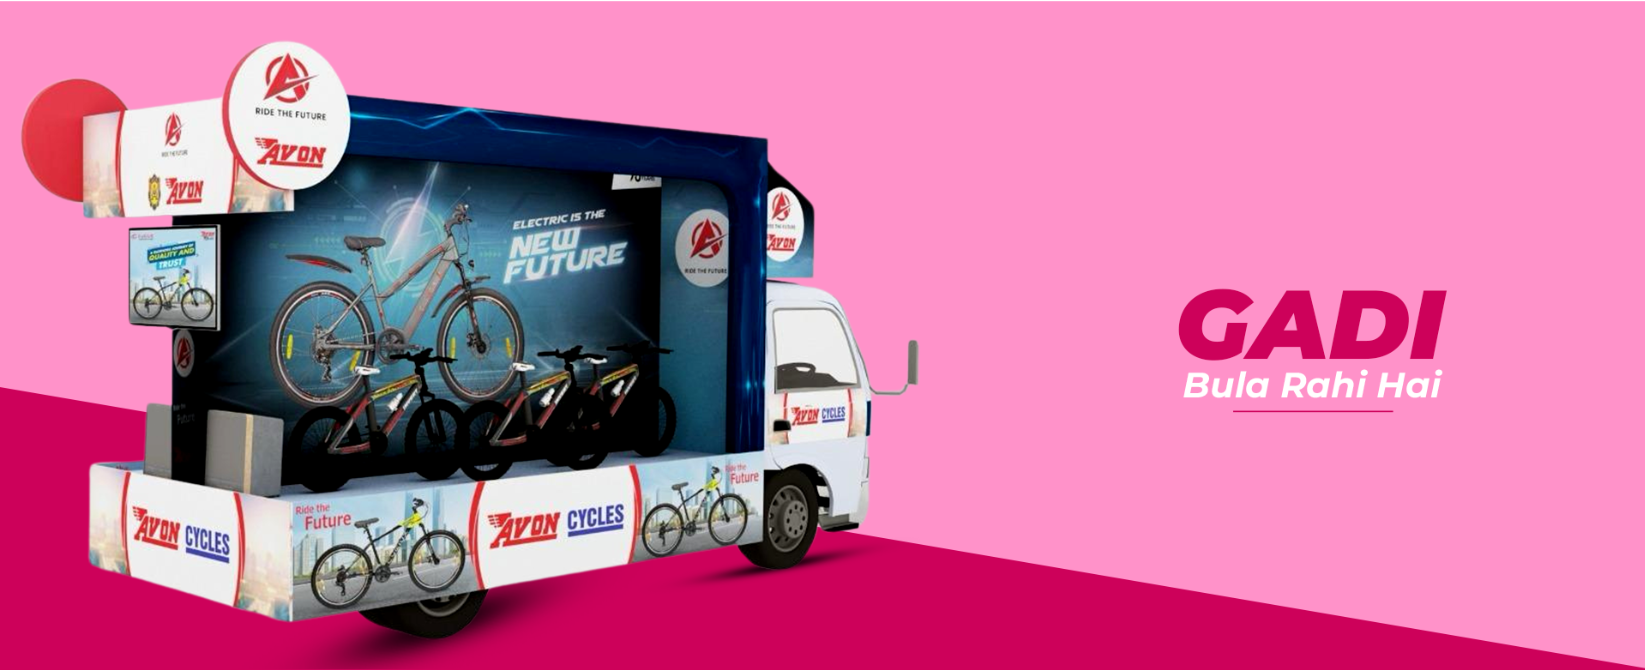
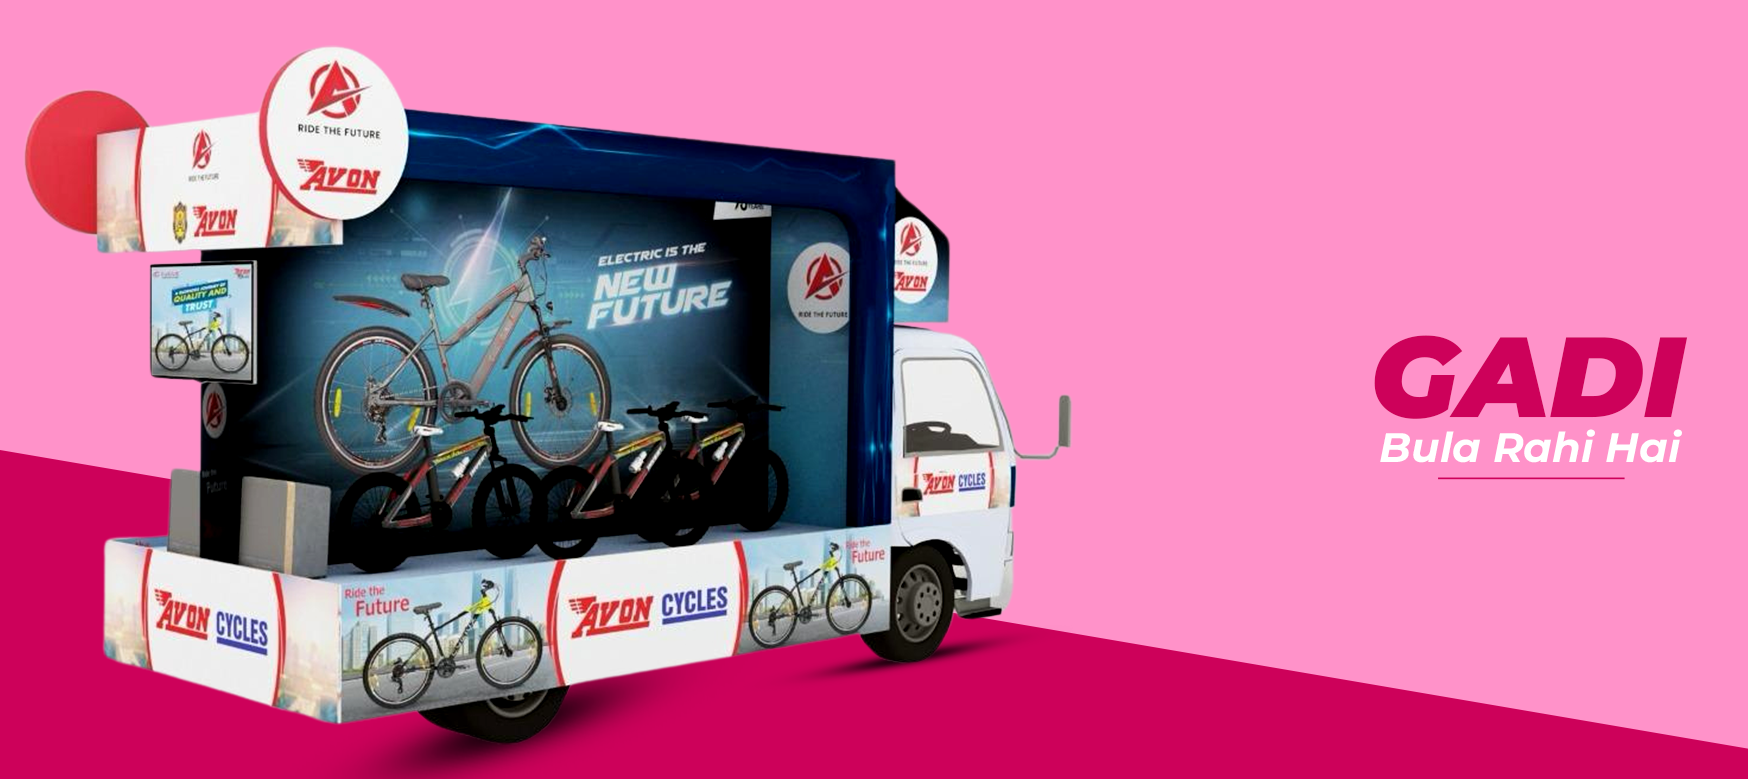
feat: add images to homepage

diff --git a/index.html b/index.html
@@ -37,7 +37,7 @@
     </div>
   </header>
 
-  <div class="text-white">
+  <div class=" text-slate-200">
     <!-- 2. Hero section -->
    <img class="w-full" src="./images/gadi.png" alt="gadi"/>
 
@@ -56,7 +56,7 @@
           <strong>"We plan for Planes to Take off"</strong>
 
         </h4>
-        <h3 class="text-4xl max-md:text-2xl text-center font-semibold mt-6">Introducing Store on Wheels</h3>
+        <h3 class="text-4xl max-md:text-2xl text-center font-bold mt-6">Introducing Store on Wheels</h3>
         <h4 class="text-3xl max-md:text-2xl/7 font-thin text-center my-2">
           Revolutionizing Retail with Mobile Convenience.
         </h4>
@@ -71,8 +71,8 @@
     <div class="bg-secondary max-lg:h-10 h-28">
       <div class="across bg-primary h-full"></div>
     </div>
-    <section class="bg-secondary flex s-full justify-center">
-      <img src="images/gadi_details.png" alt="gadi details" />
+    <section class="bg-secondary flex s-full justify-center py-8 px-4">
+      <img src="images/glow_on_wheels.png" class="max-w-6xl w-full" alt="gadi details" />
     </section>
     <div class="bg-secondary max-lg:h-10 h-28">
       <div class="rev-across bg-primary h-full"></div>
@@ -243,7 +243,9 @@
           clients</h2>
         <div class="w-36 max-lg:w-24 h-1 max-lg:h-0.5 bg-primary"></div>
       </div>
-      <div class="mx-4 mt-4 border border-primary rounded-2xl h-20 max-w-screen-lg mx-auto"></div>
+      <div class="px-6">
+        <div class="mt-4 border border-primary rounded-2xl h-20 max-w-screen-lg mx-auto"></div>
+      </div>
     </section>
 
     <section id="contact-us" class="bg-white py-8">
@@ -258,26 +260,26 @@
       </div>
       <form class="text-black max-w-lg mx-auto flex flex-col gap-4 px-8 max-md:px-3 py-12 bg-primary" onsubmit="">
         <div class="flex items-center">
-          <label for="name" class="basis-28 text-white">Name</label>
+          <label for="name" class="basis-28  text-slate-200">Name</label>
           <input type="email" name="name" placeholder="Enter your Full Name"
             class="border bg-secondary w-full border-primary rounded-lg placeholder:text-primary/60 px-3 py-2 outline-none" />
         </div>
         <div class="flex items-center">
-          <label for="phone" class="basis-28 text-white">Phone No.</label>
+          <label for="phone" class="basis-28  text-slate-200">Phone No.</label>
           <input type="tel" name="phone" placeholder="Enter your Mobile Number"
             class="border bg-secondary w-full border-primary rounded-lg placeholder:text-primary/60 px-3 py-2 outline-none" />
         </div>
         <div class="flex items-center">
-          <label for="email" class="basis-28 text-white">Email ID</label>
+          <label for="email" class="basis-28  text-slate-200">Email ID</label>
           <input type="email" name="email" placeholder="Enter your email address"
             class="border bg-secondary w-full border-primary rounded-lg placeholder:text-primary/60 px-3 py-2 outline-none" />
         </div>
         <div class="flex items-start">
-          <label for="message" class="text-white basis-28">Message</label>
+          <label for="message" class=" text-slate-200 basis-28">Message</label>
           <textarea name="message" placeholder="Enter your message here"
             class="border bg-secondary w-full border-primary rounded-lg placeholder:text-primary/60 px-3 py-2 outline-none"></textarea>
         </div>
-        <button type="submit" class="primary-btn rounded-md text-white mt-3 ms-24">Submit</button>
+        <button type="submit" class="primary-btn rounded-md  text-slate-200 mt-3 ms-24">Submit</button>
       </form>
     </section>
 

diff --git a/services-atl.html b/services-atl.html
@@ -18,7 +18,7 @@
       <div class="font-bold text-lg">CHALTI FIRTI DUKAN</div>
     </div>
     <div id="header" class="flex py-2 max-w-3xl font-semibold justify-between mx-auto *:px-2">
-      <a href="#header" class="">Home</a>
+      <a href="index.html" class="">Home</a>
       <a href="#" class="max-lg:hidden">Humari Pehchan</a>
       <a href="index.html#services" class="selected">Services</a>
       <a href="#" class="">Case Study</a>

diff --git a/services-btl.html b/services-btl.html
@@ -18,7 +18,7 @@
       <div class="font-bold text-lg">CHALTI FIRTI DUKAN</div>
     </div>
     <div id="header" class="flex py-2 max-w-3xl font-semibold justify-between mx-auto *:px-2">
-      <a href="#header" class="">Home</a>
+      <a href="index.html" class="">Home</a>
       <a href="#" class="max-lg:hidden">Humari Pehchan</a>
       <a href="index.html#services" class="selected">Services</a>
       <a href="#" class="">Case Study</a>

diff --git a/services-dm.html b/services-dm.html
@@ -18,7 +18,7 @@
       <div class="font-bold text-lg">CHALTI FIRTI DUKAN</div>
     </div>
     <div id="header" class="flex py-2 max-w-3xl font-semibold justify-between mx-auto *:px-2">
-      <a href="#header" class="">Home</a>
+      <a href="index.html" class="">Home</a>
       <a href="#" class="max-lg:hidden">Humari Pehchan</a>
       <a href="index.html#services" class="selected">Services</a>
       <a href="#" class="">Case Study</a>

diff --git a/styles.css b/styles.css
@@ -1,9 +1,6 @@
 @import url('https://fonts.googleapis.com/css2?family=Rubik+Dirt&display=swap');
 @import url('https://fonts.googleapis.com/css2?family=Didact+Gothic&family=Lexend+Deca&display=swap');
 
-
-
-
 * {
     scroll-behavior: smooth;
 }
@@ -30,6 +27,10 @@
 
 .shadow-3 {
     box-shadow: 10px -10px #FF92C9;
+    &:hover {
+        box-shadow: 5px -5px #FF92C9;
+    }
+    transition: all 0.1s linear;
 }
 
 .drop-1 {
